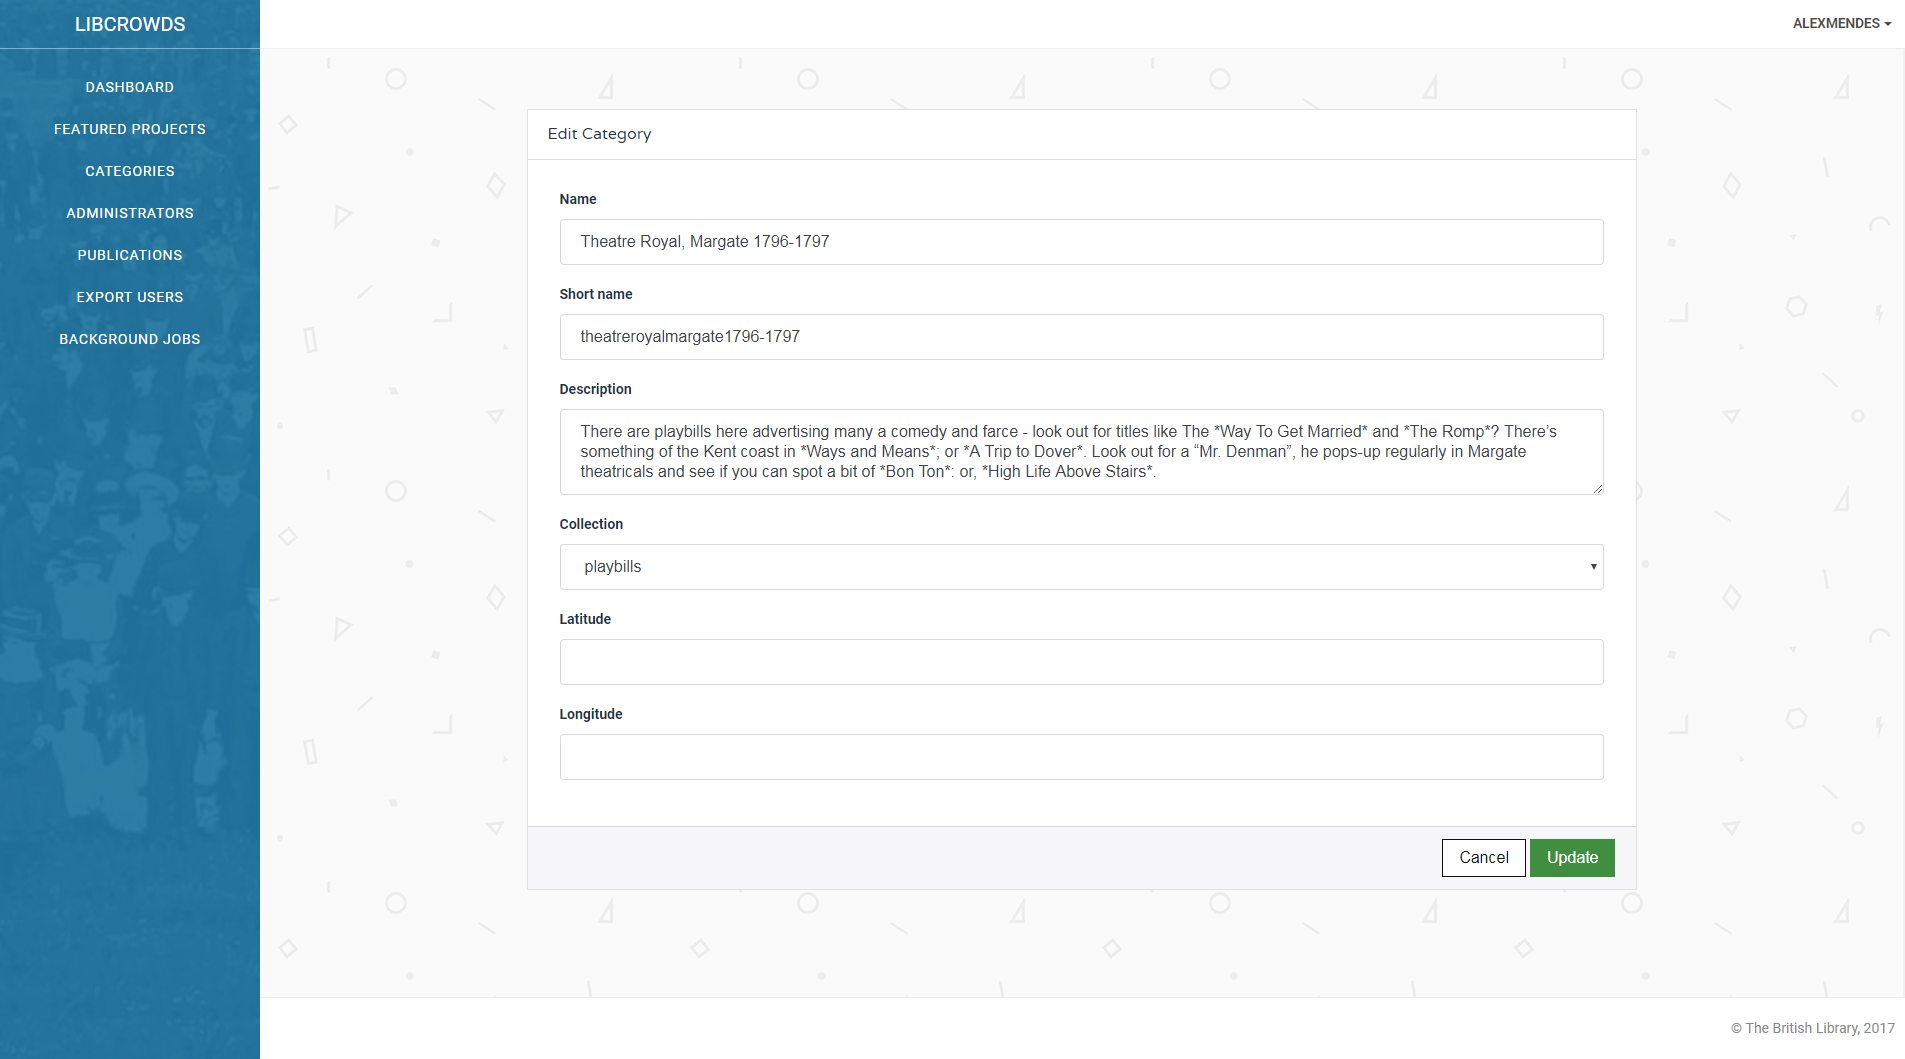
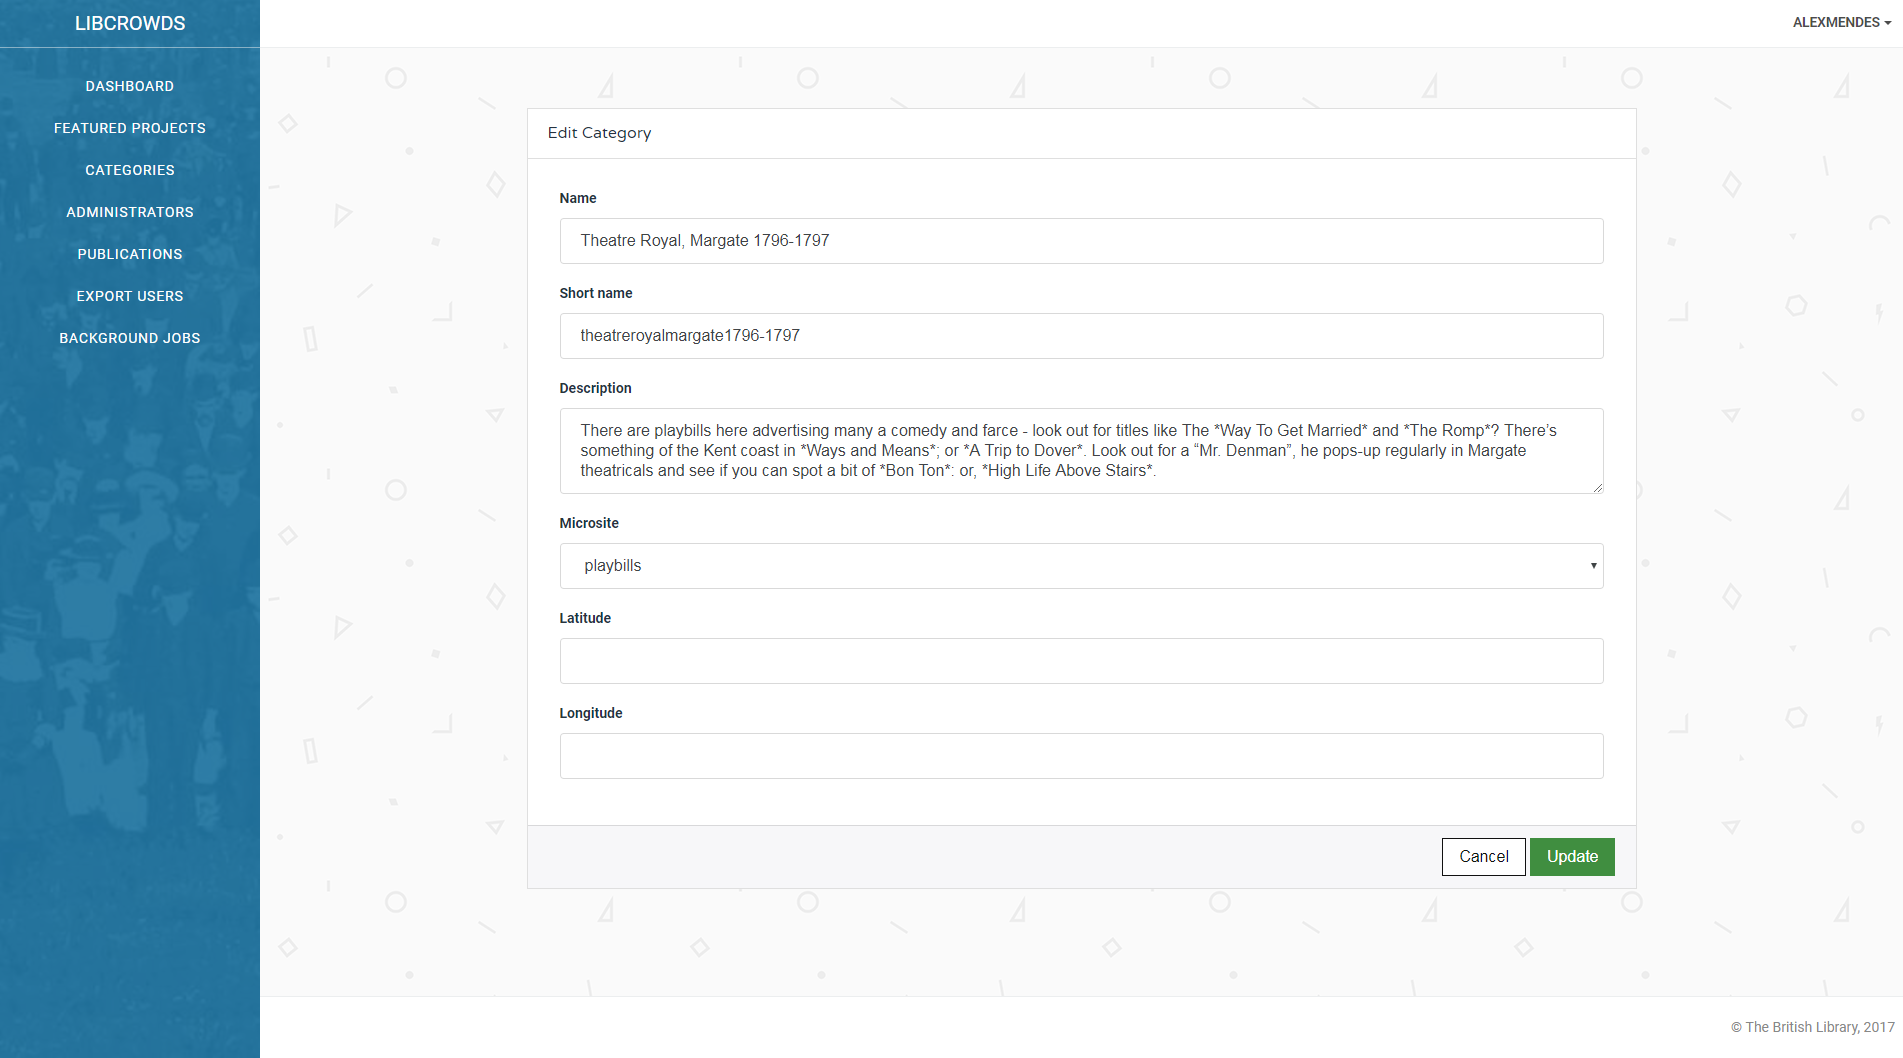
Update docs

diff --git a/docs/administration.md b/docs/administration.md
@@ -6,15 +6,17 @@ Administration settings can be accessed by admin users via the main navigation b
 
 ## Categories
 
-Categories for all microsites are managed via the categories admin section.
-
-Categories are created via the **New Category** section and edited or deleted via the **Current Categories** section.
+Categories for all microsites are created via the **New Category** section and edited or deleted via the **Current Categories** section.
 
 ![Admin - Categories](./assets/admin-categories.png?raw=true)
 
-To link a category to a particular microsite click **Edit**, then on the subsequent page select the key of the **Microsite** under which you want the category and all associated projects to appear.
+To link a category to a particular microsite click **Edit**, then on the subsequent page select the key of the **Microsite** under which you want the category (and all associated projects) to appear.
 
 ![Admin - Edit Categories](./assets/admin-edit-categories.png?raw=true)
+
+To save any changes click **Update**.
+
+![Admin - Edit Categories Success](./assets/admin-edit-categories-success.png?raw=true)
 
 ## Featured Projects
 

diff --git a/docs/SUMMARY.md b/docs/SUMMARY.md
@@ -9,4 +9,5 @@
   * [Site Configuration](configuration.md#site-configuration)
   * [Microsite Configuration](configuration.md#microsite-configuration)
 * [Administration](administration.md)
+  * [Categories](administration.md#categories)
   * [Featured Projects](administration.md#featured-projects)
